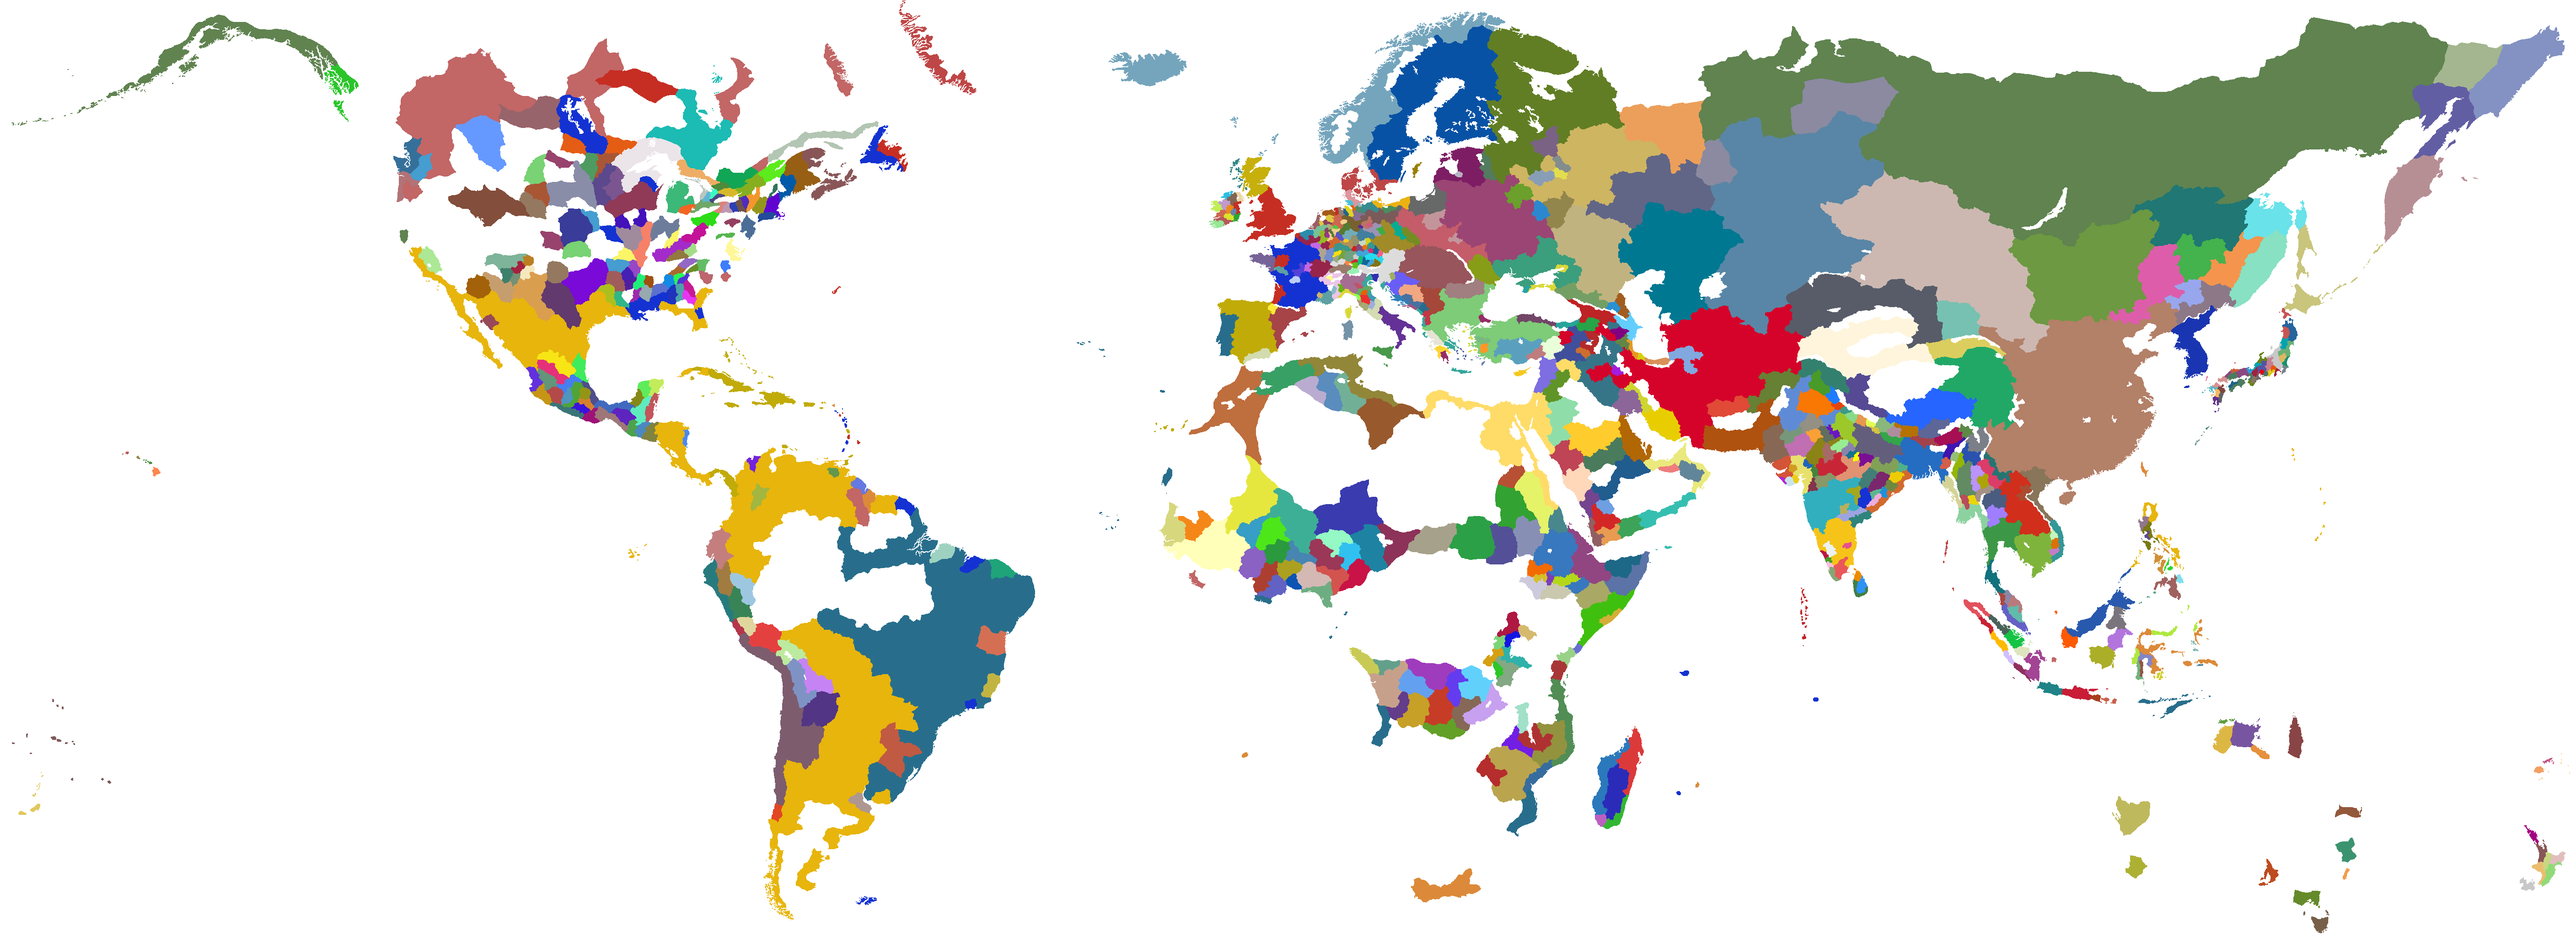
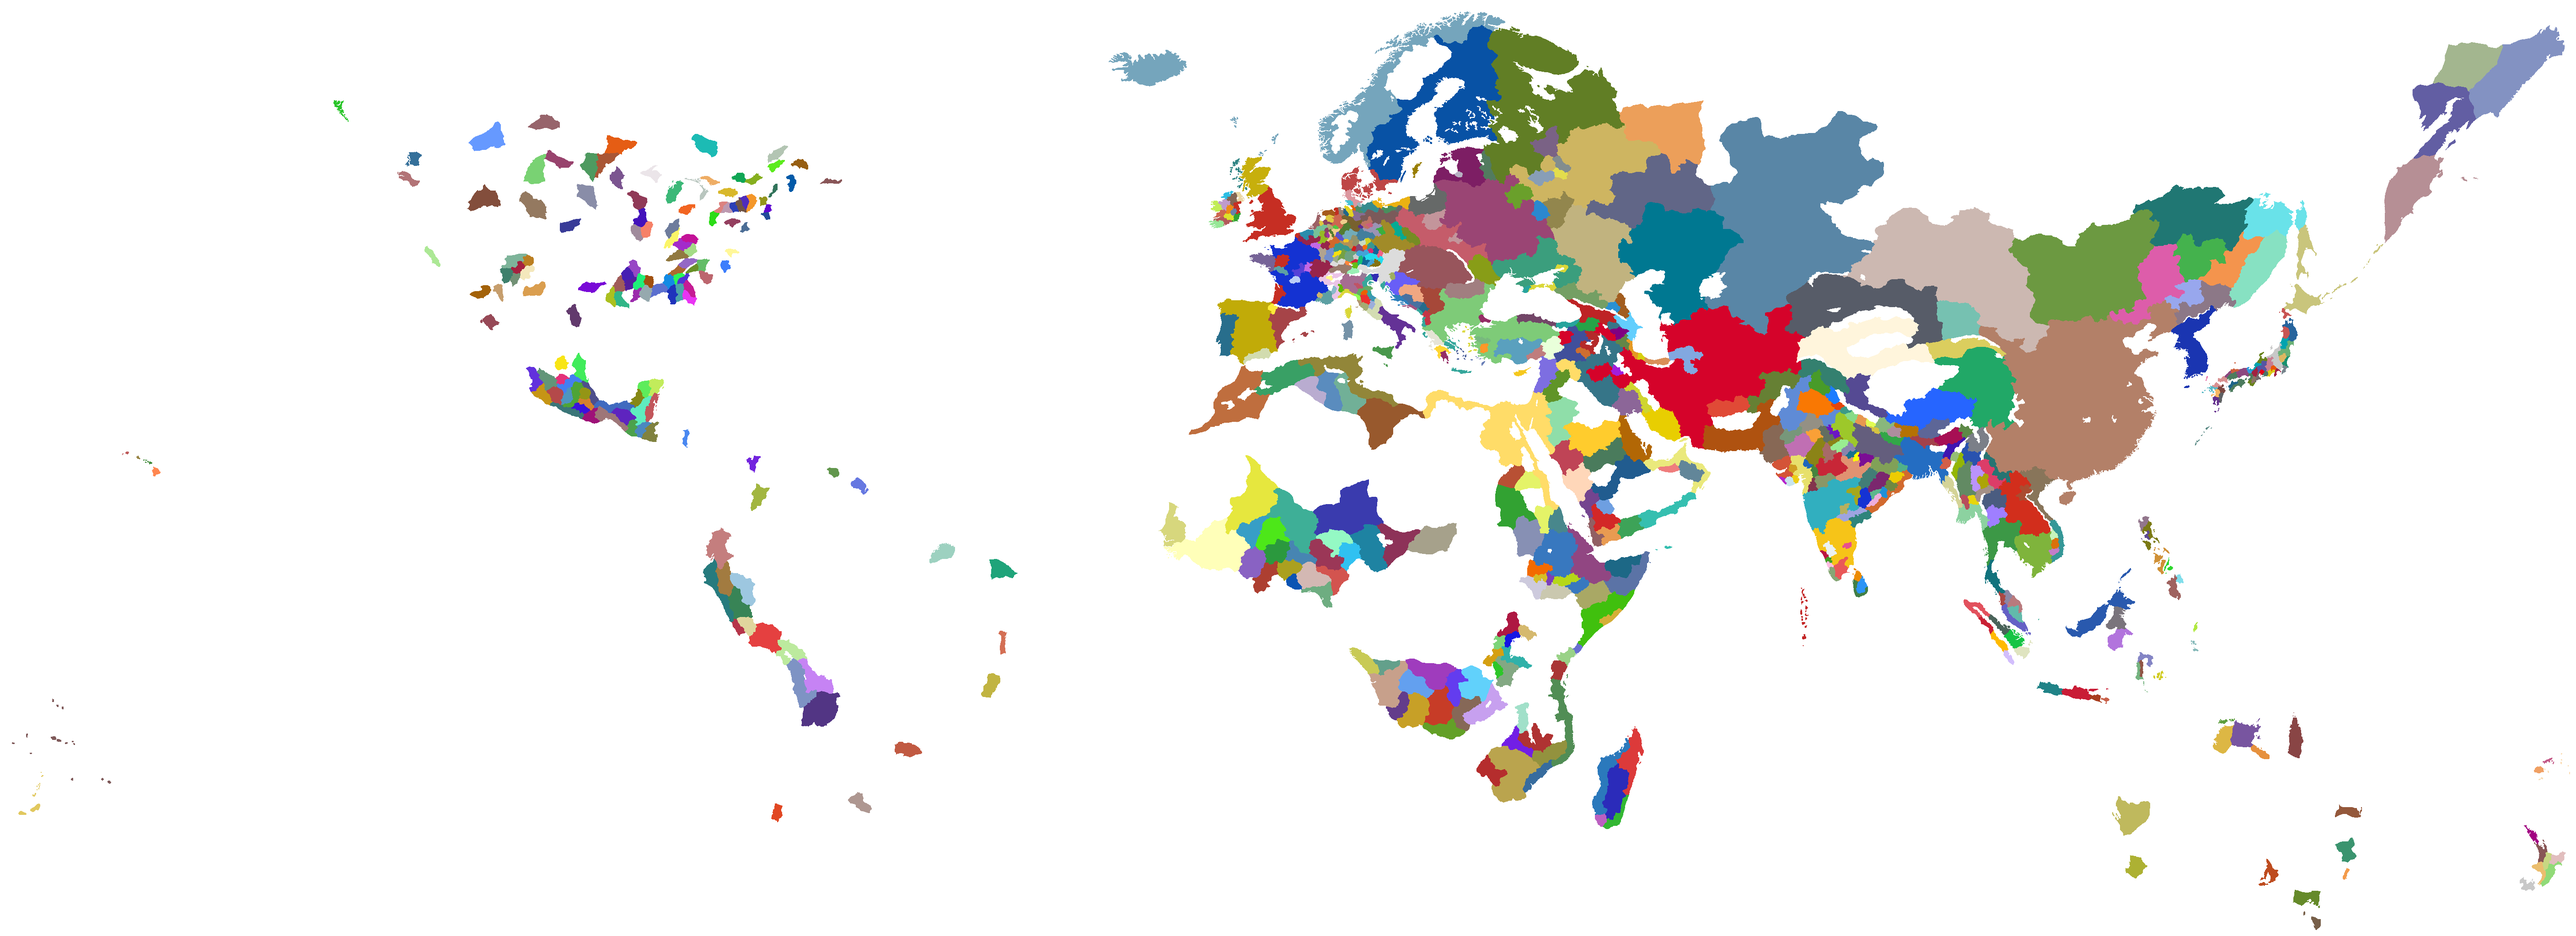
Compute pipeline refactor finished

diff --git a/src/source/country_data.cpp b/src/source/country_data.cpp
@@ -112,9 +112,9 @@ void CountryData::store_filename_data()
 	if (should_assign_country_to_non_ownable == true)
 	{
 		UtilityFunctions::print_verbose("Assigning provinces with no owner...");
-		terrain_colors["Ocean"] = Color(0.1, 0.4, 0.7, 0.0);
+		terrain_colors["Ocean"] = Color(0.1, 0.4, 0.7, 1.0);
 
-		terrain_colors["No Owner"] = Color(0.7, 0.5, 0.1, 0.0);
+		terrain_colors["No Owner"] = Color(0.7, 0.5, 0.1, 1.0);
 
 		Array terrain_keys = terrain_colors.keys();
 		for (const auto &terrain_key : terrain_keys)

diff --git a/src/source/utility.cpp b/src/source/utility.cpp
@@ -187,7 +187,7 @@ String gsg::get_terrain_owner(const String &filename)
 			lower_name.contains("white sea") || lower_name.contains("kara sea") ||
 			lower_name.contains("english channel") || lower_name.contains("irish sea") ||
 			lower_name.contains("bay of biscay") || lower_name.contains("gulf of bothnia") ||
-			lower_name.contains("kattegat"))
+			lower_name.contains("kattegat") || lower_name.contains("alands hav"))
 	{
 		return "Ocean";
 	}

diff --git a/src/source/compute_helper.cpp b/src/source/compute_helper.cpp
@@ -60,8 +60,8 @@ Ref<RDTextureFormat> ComputeHelper::texture_format_from_texture_2d(Vector2i text
 	Ref<RDTextureFormat> fm;
 	fm.instantiate();
 
-	fm->set_width(output_texture_size.x);
-	fm->set_height(output_texture_size.y);
+	fm->set_width(texture_size.x);
+	fm->set_height(texture_size.y);
 	fm->set_format(format);
 	fm->set_usage_bits(bits);
 	return fm;
